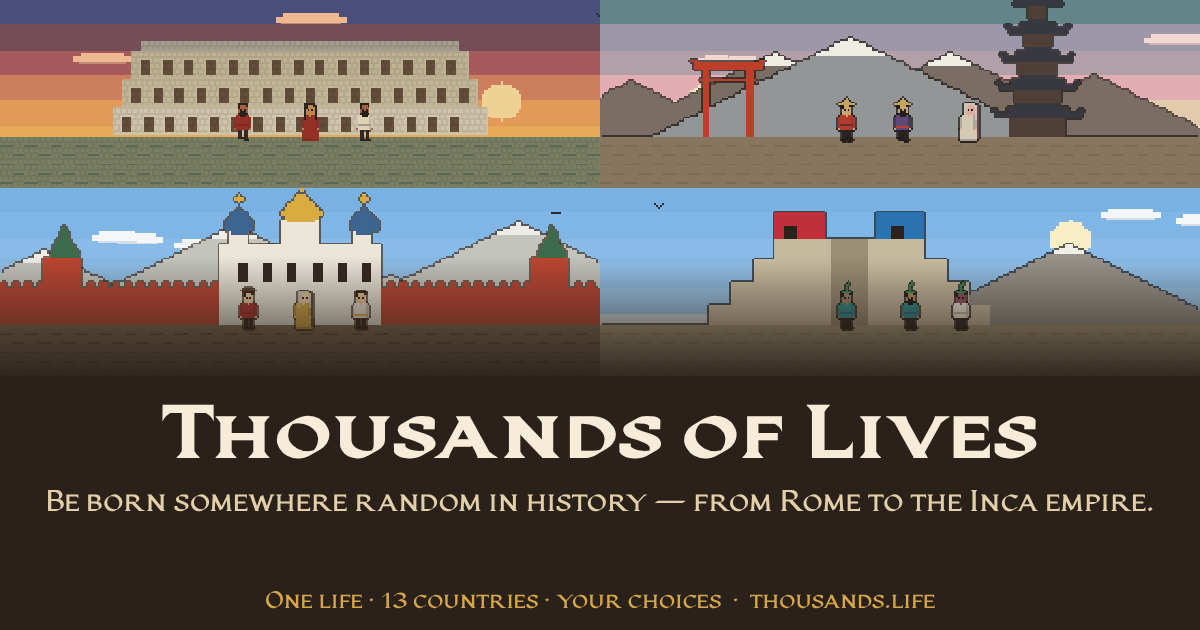
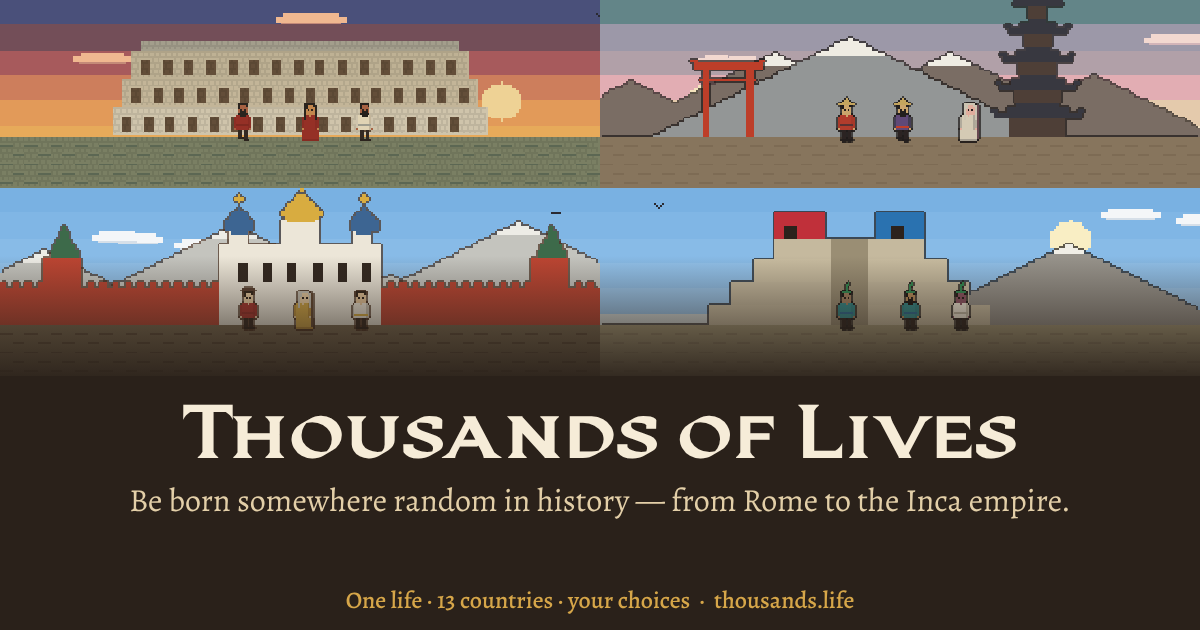
Шрифты: основной текст — Alegreya, крупные надписи — «Летопись»; подсказка о длительности года в первые годы жизни
- Alegreya (OFL, @fontsource-variable/alegreya) в сборке, без внешних запросов; «Летопись» — h1–h3, название игры,
  имя героя, подписи разделов, крупные цифры; карточка «Поделиться» и OG — так же
- подсказка 2–6 лет: длительность года меняется в настройках, кнопка «Открыть настройки», «Назад» — в жизнь
- длинное имя героя мельчает и не выталкивает «Меню»

Claude-Session: https://claude.ai/code/session_011z46G7HtB4VHgeScBGLn88

Changed region(s): [[0.1233, 0.6333, 0.8633, 0.754], [0.0308, 0.7841, 0.9558, 0.8143], [0.2158, 0.9349, 0.8017, 0.9651]]

diff --git a/src/ui/Life.tsx b/src/ui/Life.tsx
@@ -61,6 +61,8 @@ interface LifeProps {
   /** На чужбине: «Задумать возвращение». */
   onPlanReturn?: () => void
   onMenu: () => void
+  /** Открыть настройки из жизни («Назад» вернёт в жизнь). */
+  onSettings?: () => void
   choiceChanges: Change[]
   yearChanges: Change[]
   /** Своя длительность года из настроек (секунды); не задана — стандартная. */
@@ -78,7 +80,7 @@ function visible(state: GameState, index: number, entry: DiaryEntry, progress: n
   return at === undefined || at <= progress
 }
 
-export function Life({ state, era, onStart, onFinish, onChoose, onDismiss, onLifestyle, onPlanReturn, onMenu, choiceChanges, yearChanges, yearSec, sound, dream }: LifeProps) {
+export function Life({ state, era, onStart, onFinish, onChoose, onDismiss, onLifestyle, onPlanReturn, onMenu, onSettings, choiceChanges, yearChanges, yearSec, sound, dream }: LifeProps) {
   const { t, lang } = useUi()
   const hero = state.hero
   const o = { sex: hero.sex, region: hero.region, religion: hero.religion }
@@ -180,6 +182,7 @@ export function Life({ state, era, onStart, onFinish, onChoose, onDismiss, onLif
   // Время года на картинке двора идёт вместе с полоской года.
   const season = state.phase === 'running' ? progress : 0
   const kids = hero.npcs.filter((n) => n.role === 'child' && n.alive)
+  const heroName = nameOf(hero.name, lang)
 
   return (
     <div class="life">
@@ -188,7 +191,8 @@ export function Life({ state, era, onStart, onFinish, onChoose, onDismiss, onLif
           <Avatar input={heroLook(hero)} label={t('life.portrait', { n: hero.age }, o)} />
           <div class="hero-bar-info">
             <div class="hero-bar-top">
-              <h1 class="hero-name">{nameOf(hero.name, lang)}</h1>
+              {/* Длинное имя мельче: «Летопись» широкая, а «Меню» должно оставаться на месте. */}
+              <h1 class={`hero-name ${heroName.length > 13 ? 'longer' : heroName.length > 8 ? 'long' : ''}`}>{heroName}</h1>
               <div class="hero-bar-actions">
                 {sound}
                 <button class="link" onClick={onMenu}>{t('life.menu')}</button>
@@ -248,7 +252,23 @@ export function Life({ state, era, onStart, onFinish, onChoose, onDismiss, onLif
           </div>
         )}
       </div>
-      {tab === 'life' && hintFor('speed', lifeSec >= 3) && <Hint text={t('hint.speed')} onClose={() => closeHint('speed')} />}
+      {tab === 'life' && hintFor('speed', lifeSec >= 3 && hero.age < 2) && <Hint text={t('hint.speed')} onClose={() => closeHint('speed')} />}
+      {/* Первые годы жизни: длительность года меняется в настройках. */}
+      {tab === 'life' && hintFor('year_len', hero.age >= 2 && hero.age <= 6) && (
+        <Hint
+          text={t('hint.year_len')}
+          onClose={() => closeHint('year_len')}
+          action={
+            onSettings && {
+              label: t('hint.year_len.open'),
+              run: () => {
+                platform.track('tab_open', { tab: 'settings_from_hint' })
+                onSettings()
+              },
+            }
+          }
+        />
+      )}
 
       {tab === 'life' && (
         <section class="panel">
@@ -536,13 +556,34 @@ function ChangeList({ changes, coin }: { changes: Change[]; coin: string }) {
   )
 }
 
-/** Подсказка: пузырь с текстом, исчезает по касанию. */
-function Hint({ text, onClose }: { text: string; onClose: () => void }) {
+/** Подсказка: пузырь с текстом, исчезает по касанию; action — кнопка-действие внутри (например, «Открыть настройки»). */
+function Hint({ text, onClose, action }: { text: string; onClose: () => void; action?: { label: string; run: () => void } }) {
+  if (!action) {
+    return (
+      <button class="hint" onClick={onClose}>
+        <span>{text}</span>
+        <span class="hint-x" aria-hidden="true">✕</span>
+      </button>
+    )
+  }
   return (
-    <button class="hint" onClick={onClose}>
-      <span>{text}</span>
-      <span class="hint-x" aria-hidden="true">✕</span>
-    </button>
+    <div class="hint" role="note">
+      <span>
+        {text}{' '}
+        <button
+          class="hint-action"
+          onClick={() => {
+            onClose()
+            action.run()
+          }}
+        >
+          {action.label}
+        </button>
+      </span>
+      <button class="hint-x" onClick={onClose} aria-label="✕">
+        ✕
+      </button>
+    </div>
   )
 }
 

diff --git a/src/style.css b/src/style.css
@@ -1,7 +1,8 @@
 /* «Тёплая гравюра»: бумага, чернила, сепия. */
 
-/* Шрифт игры — «Летопись» (Thousands Letopis 0.2, src/fonts): глифическая антиква широкого пера,
-   прописные и капитель; один вариативный файл, веса 300–700. Других шрифтов в игре нет. */
+/* Шрифты: основной текст — Alegreya (OFL, @fontsource-variable/alegreya, подключается в main.tsx);
+   крупные надписи — «Летопись» (Thousands Letopis 0.2, src/fonts): глифическая антиква широкого пера,
+   прописные и капитель, от 18 px — заголовки, название игры, имя героя, крупные цифры, подписи разделов. */
 @font-face {
   font-family: 'Thousands Letopis';
   src: url('./fonts/ThousandsLetopis-VF.woff2') format('woff2');
@@ -26,7 +27,8 @@
   --art-1: #d9c39b;
   --art-2: #b9955f;
   --shadow: 0 1px 0 rgba(43, 33, 25, 0.06), 0 6px 18px rgba(43, 33, 25, 0.08);
-  --font: 'Thousands Letopis', serif;
+  --font: 'Alegreya Variable', 'Alegreya', Georgia, serif;
+  --font-display: 'Thousands Letopis', 'Alegreya Variable', serif;
   --size: 17px;
   color-scheme: light;
 }
@@ -95,6 +97,8 @@ body {
 button, input { font: inherit; color: inherit; }
 
 h1, h2, h3 { line-height: 1.2; margin: 0 0 0.5rem; }
+/* Крупные надписи — «Летопись». */
+h1, h2, h3, .game-title, .hero-name, .section-title, .archetype, .stats strong, .chapter-title { font-family: var(--font-display); font-weight: 500; }
 h1 { font-size: 1.7rem; }
 h2 { font-size: 1.25rem; }
 h3 { font-size: 1.05rem; margin-top: 1rem; }
@@ -206,6 +210,10 @@ button:focus-visible, input:focus-visible + span, .file-button:focus-within { ou
 /* Портрет героя: 32×40 точек, растянут без сглаживания. */
 .avatar { flex: none; width: 72px; height: 90px; image-rendering: pixelated; border-radius: 10px; border: 1px solid var(--line); background: var(--card); }
 .hero-name { font-size: 1.6rem; margin: 0; }
+/* Длинное имя переносится, а не выталкивает «Меню» за край (шрифт «Летопись» шире прежнего). */
+.hero-bar-top .hero-name { flex: 1 1 auto; min-width: 0; overflow-wrap: break-word; font-size: clamp(1.25rem, 6vw, 1.6rem); line-height: 1.15; }
+.hero-bar-top .hero-name.long { font-size: clamp(1.05rem, 4.6vw, 1.3rem); }
+.hero-bar-top .hero-name.longer { font-size: clamp(0.95rem, 3.9vw, 1.1rem); }
 .hero-meta { margin: 2px 0; color: var(--ink-2); font-size: 0.95rem; }
 .tabs { display: grid; grid-template-columns: repeat(4, 1fr); border-bottom: 1px solid var(--line); position: sticky; top: 0; background: var(--paper); z-index: 2; }
 /* На экране жизни вкладки и панель скорости прилипают вместе. */
@@ -639,6 +647,8 @@ button:focus-visible, input:focus-visible + span, .file-button:focus-within { ou
 /* Одноразовые подсказки */
 .hint { display: flex; align-items: flex-start; gap: 10px; width: 100%; margin: 8px 0; padding: 10px 12px; border: 0; border-radius: 10px; background: var(--ink); color: var(--paper); font: inherit; font-size: 0.9rem; line-height: 1.35; text-align: left; cursor: pointer; box-shadow: var(--shadow); }
 .hint-x { margin-left: auto; opacity: 0.7; }
+div.hint .hint-x { background: none; border: 0; color: inherit; font: inherit; cursor: pointer; padding: 0 2px; min-width: 28px; min-height: 28px; }
+.hint-action { background: none; border: 0; padding: 0; color: inherit; font: inherit; font-weight: 700; text-decoration: underline; cursor: pointer; }
 .tabs + .hint, .hint + .tabs { margin-top: 0; }
 @media (prefers-reduced-motion: no-preference) { .hint { animation: rise 0.3s ease-out; } }
 

diff --git a/src/ui/shareCard.ts b/src/ui/shareCard.ts
@@ -52,7 +52,9 @@ export function drawCard(canvas: HTMLCanvasElement, format: CardFormat, d: CardD
   const muted = d.dark ? '#a8977f' : '#7d6b58'
   const accent = d.dark ? '#d07a52' : '#8e3b22'
   const gold = d.dark ? '#d1a35a' : '#a87a2e'
-  const serif = "'Thousands Letopis', serif"
+  // Имя, архетип и подпись игры — «Летопись», остальной текст — Alegreya.
+  const serif = "'Alegreya Variable', 'Alegreya', Georgia, serif"
+  const display = "'Thousands Letopis', serif"
   ctx.fillStyle = paper
   ctx.fillRect(0, 0, cw, ch)
 
@@ -88,8 +90,8 @@ export function drawCard(canvas: HTMLCanvasElement, format: CardFormat, d: CardD
 
   // Нижняя граница текста: под ней строка с названием игры.
   const limit = ch - pad - Math.round(60 * unit)
-  const text = (s: string, size: number, color: string, weight = 400, italic = false, maxWidth = textW) => {
-    ctx.font = `${italic ? 'italic ' : ''}${weight} ${Math.round(size * unit)}px ${serif}`
+  const text = (s: string, size: number, color: string, weight = 400, italic = false, maxWidth = textW, font = serif) => {
+    ctx.font = `${italic ? 'italic ' : ''}${weight} ${Math.round(size * unit)}px ${font}`
     ctx.fillStyle = color
     for (const line of wrap(ctx, s, maxWidth)) {
       const step = Math.round(size * unit * 1.25)
@@ -104,26 +106,26 @@ export function drawCard(canvas: HTMLCanvasElement, format: CardFormat, d: CardD
     x = sceneW + pad
     y = pad - 10
     const w = cw - x - pad
-    text(d.name, 64, ink, 700, false, w)
+    text(d.name, 64, ink, 600, false, w, display)
     text(d.years, 30, muted, 400, false, w)
     text(d.place, 30, muted, 400, false, w)
     y += 16
-    text(d.archetype, 40, accent, 700, false, w)
+    text(d.archetype, 40, accent, 600, false, w, display)
     text(d.patternLine, 24, muted, 400, false, w)
     y += 10
     for (const f of d.facts.slice(0, 2)) text(`• ${f}`, 26, ink, 400, false, w)
     if (d.playerLine) text(`«${d.playerLine}»`, 26, ink, 400, true, w)
-    ctx.font = `700 ${Math.round(26 * unit)}px ${serif}`
+    ctx.font = `600 ${Math.round(26 * unit)}px ${display}`
     ctx.fillStyle = gold
     ctx.fillText(d.cta, x, ch - pad + 10)
     return
   }
 
-  text(d.name, 76, ink, 700)
+  text(d.name, 76, ink, 600, false, textW, display)
   text(d.years, 36, muted)
   text(d.place, 36, muted)
   y += 24
-  text(d.archetype, 52, accent, 700)
+  text(d.archetype, 52, accent, 600, false, textW, display)
   text(d.patternLine, 30, muted)
   y += 20
   for (const f of d.facts.slice(0, 3)) text(`• ${f}`, 34, ink)
@@ -131,7 +133,7 @@ export function drawCard(canvas: HTMLCanvasElement, format: CardFormat, d: CardD
     y += 16
     text(`«${d.playerLine}»`, 36, ink, 400, true)
   }
-  ctx.font = `700 ${Math.round(34 * unit)}px ${serif}`
+  ctx.font = `600 ${Math.round(34 * unit)}px ${display}`
   ctx.fillStyle = gold
   ctx.fillText(d.cta, pad, ch - pad)
 }

diff --git a/tools/og.html b/tools/og.html
@@ -13,13 +13,14 @@
     <!-- Картинка для соцсетей 1200×630: npm run dev, открыть /tools/og.html?lang=ru (или en), снимок холста → public/og-ru.png -->
     <canvas id="c" width="1200" height="630"></canvas>
     <script type="module">
+      import '@fontsource-variable/alegreya/wght.css'
       import { drawScene, W, H } from '../src/pixel/scene.ts'
       const lang = new URLSearchParams(location.search).get('lang') || 'ru'
       const T = {
         ru: { title: 'Тысячи жизней', sub: 'Родись в случайном месте истории — от Рима до империи инков.', tag: 'Одна жизнь · 13 стран · ваши решения' },
         en: { title: 'Thousands of Lives', sub: 'Be born somewhere random in history — from Rome to the Inca empire.', tag: 'One life · 13 countries · your choices' },
       }[lang]
-      await document.fonts.load("700 80px 'Thousands Letopis'").catch(() => {})
+      await Promise.all([document.fonts.load("600 80px 'Thousands Letopis'"), document.fonts.load("400 30px 'Alegreya Variable'")]).catch(() => {})
       const c = document.getElementById('c')
       const ctx = c.getContext('2d')
       ctx.fillStyle = '#2a211a'
@@ -51,12 +52,12 @@
       ctx.fillRect(0, ph - 120, 1200, 130)
       ctx.fillStyle = '#f6ecd8'
       ctx.textAlign = 'center'
-      ctx.font = "700 76px 'Thousands Letopis', serif"
+      ctx.font = "600 76px 'Thousands Letopis', serif"
       ctx.fillText(T.title, 600, ph + 82)
-      ctx.font = "400 30px 'Thousands Letopis', serif"
+      ctx.font = "400 32px 'Alegreya Variable', serif"
       ctx.fillStyle = '#e3cfa8'
       ctx.fillText(T.sub, 600, ph + 135)
-      ctx.font = "400 24px 'Thousands Letopis', serif"
+      ctx.font = "500 24px 'Alegreya Variable', serif"
       ctx.fillStyle = '#d6a649'
       ctx.fillText(T.tag + '  ·  thousands.life', 600, 608)
       document.body.dataset.ready = '1'

diff --git a/src/ui/App.tsx b/src/ui/App.tsx
@@ -467,6 +467,8 @@ export function App() {
   }
 
   const toMenu = () => setScreen('menu')
+  /** Откуда открыты настройки: из жизни «Назад» возвращает в жизнь. */
+  const [settingsFrom, setSettingsFrom] = useState<'menu' | 'life'>('menu')
 
   const openFeedback = (from: Screen) => {
     setFeedbackFrom(from)
@@ -567,6 +569,10 @@ export function App() {
               persist()
             }}
             onMenu={toMenu}
+            onSettings={() => {
+              setSettingsFrom('life')
+              setScreen('settings')
+            }}
             choiceChanges={choiceChanges}
             yearChanges={yearChanges}
             yearSec={prefs.yearSec}
@@ -639,7 +645,12 @@ export function App() {
             onBack={toMenu}
           />
         )}
-        {screen === 'settings' && <Settings prefs={prefs} onPrefs={setPrefs} onReset={onReset} onExport={onExport} onImport={onImport} onBack={toMenu} />}
+        {screen === 'settings' && <Settings prefs={prefs} onPrefs={setPrefs} onReset={onReset} onExport={onExport} onImport={onImport} onBack={() => {
+          const back = settingsFrom
+          setSettingsFrom('menu')
+          if (back === 'life' && game.current && game.current.phase !== 'dead') setScreen('life')
+          else toMenu()
+        }} />}
         {screen === 'about' && <About onBack={toMenu} />}
         {achToast && (
           <p class="toast ach-toast" role="status" onClick={() => setAchToast(null)}>

diff --git a/src/ui/Summary.tsx b/src/ui/Summary.tsx
@@ -621,7 +621,7 @@ function ShareDialog({ what, life, era, archetype, onClose, onUpdate }: { what: 
       dark,
     })
     draw()
-    document.fonts?.load("700 40px 'Thousands Letopis'").then(draw, () => {})
+    if (document.fonts) Promise.all([document.fonts.load("600 40px 'Thousands Letopis'"), document.fonts.load("400 30px 'Alegreya Variable'")]).then(draw, () => {})
   }, [format, clean.text, lang])
 
   const save = () => onUpdate({ ...life, playerLine: clean.text })

diff --git a/src/main.tsx b/src/main.tsx
@@ -1,6 +1,9 @@
 import { render } from 'preact'
 import { initPlatform, platform } from './platform'
 import { App } from './ui/App'
+// Шрифты лежат в сборке (внешних запросов нет): Alegreya — основной текст, «Летопись» — крупные надписи (style.css).
+import '@fontsource-variable/alegreya/wght.css'
+import '@fontsource-variable/alegreya/wght-italic.css'
 import './style.css'
 
 initPlatform()

diff --git a/src/pixel/scene.ts b/src/pixel/scene.ts
@@ -1996,7 +1996,7 @@ export function composeScene(ctx: CanvasRenderingContext2D, b: BuiltScene, t: nu
     ctx.fillStyle = 'rgba(20,16,12,0.7)'
     ctx.fillRect(b.badge.x - 2, b.badge.y - 10, 20, 13)
     ctx.fillStyle = '#f2ead8'
-    ctx.font = "700 11px 'Thousands Letopis', serif"
+    ctx.font = "700 11px 'Alegreya Variable', Georgia, serif"
     ctx.fillText(b.badge.text, b.badge.x, b.badge.y)
   }
 }

diff --git a/CLAUDE.md b/CLAUDE.md
@@ -65,9 +65,13 @@ npm run build       # dist/ + dist/_worker.js (приёмник аналитик
   `common/ru_dreams.json`/`en_dreams.json`, экран — `src/ui/Dream.tsx`, награды группы `dream` и «Школьная программа» —
   `achievements.ts`/`Awards.tsx`, отчёт в `/admin` — `SQL.dreamSteps`. Новый сон: запись в `dreams.json` + тексты RU/EN;
   `validateDreams()` проверяет ответы, допуски и формулы на краях параметров.
-- Шрифт — только «Летопись» (Thousands Letopis 0.2): `src/fonts/ThousandsLetopis-VF.woff2` (вариативный, веса 300–700,
-  прописные + капитель), `@font-face` в `style.css`; на холстах (карточка «Поделиться», OG) — тот же шрифт, перерисовка
-  после `document.fonts.load`. Google Fonts и PT Serif убраны. README шрифта — `src/fonts/README-Letopis.md`.
+- Шрифты (оба лежат в сборке, внешних запросов нет): основной текст — Alegreya (`@fontsource-variable/alegreya`,
+  подключается в `main.tsx`, `--font`); крупные надписи — «Летопись» (Thousands Letopis 0.2,
+  `src/fonts/ThousandsLetopis-VF.woff2`, `--font-display`: h1–h3, название игры, имя героя, подписи разделов, крупные
+  цифры). На холстах (карточка «Поделиться», OG) — так же, перерисовка после `document.fonts.load`. README «Летописи» —
+  `src/fonts/README-Letopis.md`.
+- Подсказки на экране жизни — `hintFor`/`closeHint` в `Life.tsx` (закрытые помнятся в `thousands.hints`): скорость (0–1 год),
+  длительность года с кнопкой «Открыть настройки» (2–6 лет; «Назад» из настроек возвращает в жизнь), фокус, вкладка «Герой».
 - Графика (`docs/TZ_graphics.md`): сцена 320×100 из кэшируемых слоёв + движение (`scene.ts`, `fx.ts`, `figures.ts`),
   сезоны и погода (`season.ts`, `climate` в `era.json`), стиль искусства страны (`art.ts`, флаг `art_strength`),
   звуки места (`setAmbience` в `audio.ts`), иллюстрации G3 (`illustrations.ts`, `src/art/`, `npm run art`),

diff --git a/docs/CRAZYGAMES.md b/docs/CRAZYGAMES.md
@@ -23,7 +23,7 @@ npm run build:crazygames      # → dist-crazygames/ и crazygames.zip
 | На сайте | На CrazyGames |
 | --- | --- |
 | Яндекс Метрика и свой приёмник событий | Только сигналы SDK CrazyGames, своей статистики нет |
-| Шрифт с внешнего сервера | Шрифт «Летопись» лежит в сборке (`src/fonts`), внешних запросов нет ни на сайте, ни на портале |
+| Шрифт с внешнего сервера | Шрифты лежат в сборке: Alegreya (`@fontsource-variable/alegreya`) и «Летопись» (`src/fonts`); внешних запросов нет ни на сайте, ни на портале |
 | Превью для соцсетей, манифест, офлайн-кэш | Убраны |
 | «Поделиться»: системное меню, X, Threads, ссылка на thousands.life | Картинка карточки и «Скопировать текст» со ссылкой-приглашением на страницу игры на CrazyGames |
 | Форма отзывов | Скрыта (отзывы — в комментариях на странице игры) |

diff --git a/docs/ANALYTICS.md b/docs/ANALYTICS.md
@@ -15,7 +15,7 @@
 | age_milestone | age, sec_in_life | 5, 10, 15, 20, 30, 40, 50, 60, 70 лет |
 | choice_made | event_id, option, age, success | любой выбор (только свой приёмник) |
 | speed_change | speed | смена скорости |
-| tab_open | tab | вкладки жизни, «Читать» справку, графики и запись в итогах |
+| tab_open | tab | вкладки жизни, «Читать» справку, графики и запись в итогах; `settings_from_hint` — открыл настройки из подсказки о длительности года |
 | session_end | screen, age, sec_in_session | вкладку скрыли/закрыли (sendBeacon) |
 | life_end | age, cause, region, era, sec_in_life, choices, rescued, generation | смерть героя |
 | summary_action | action: heir/reborn/share/memorial/menu | кнопки итогов |
